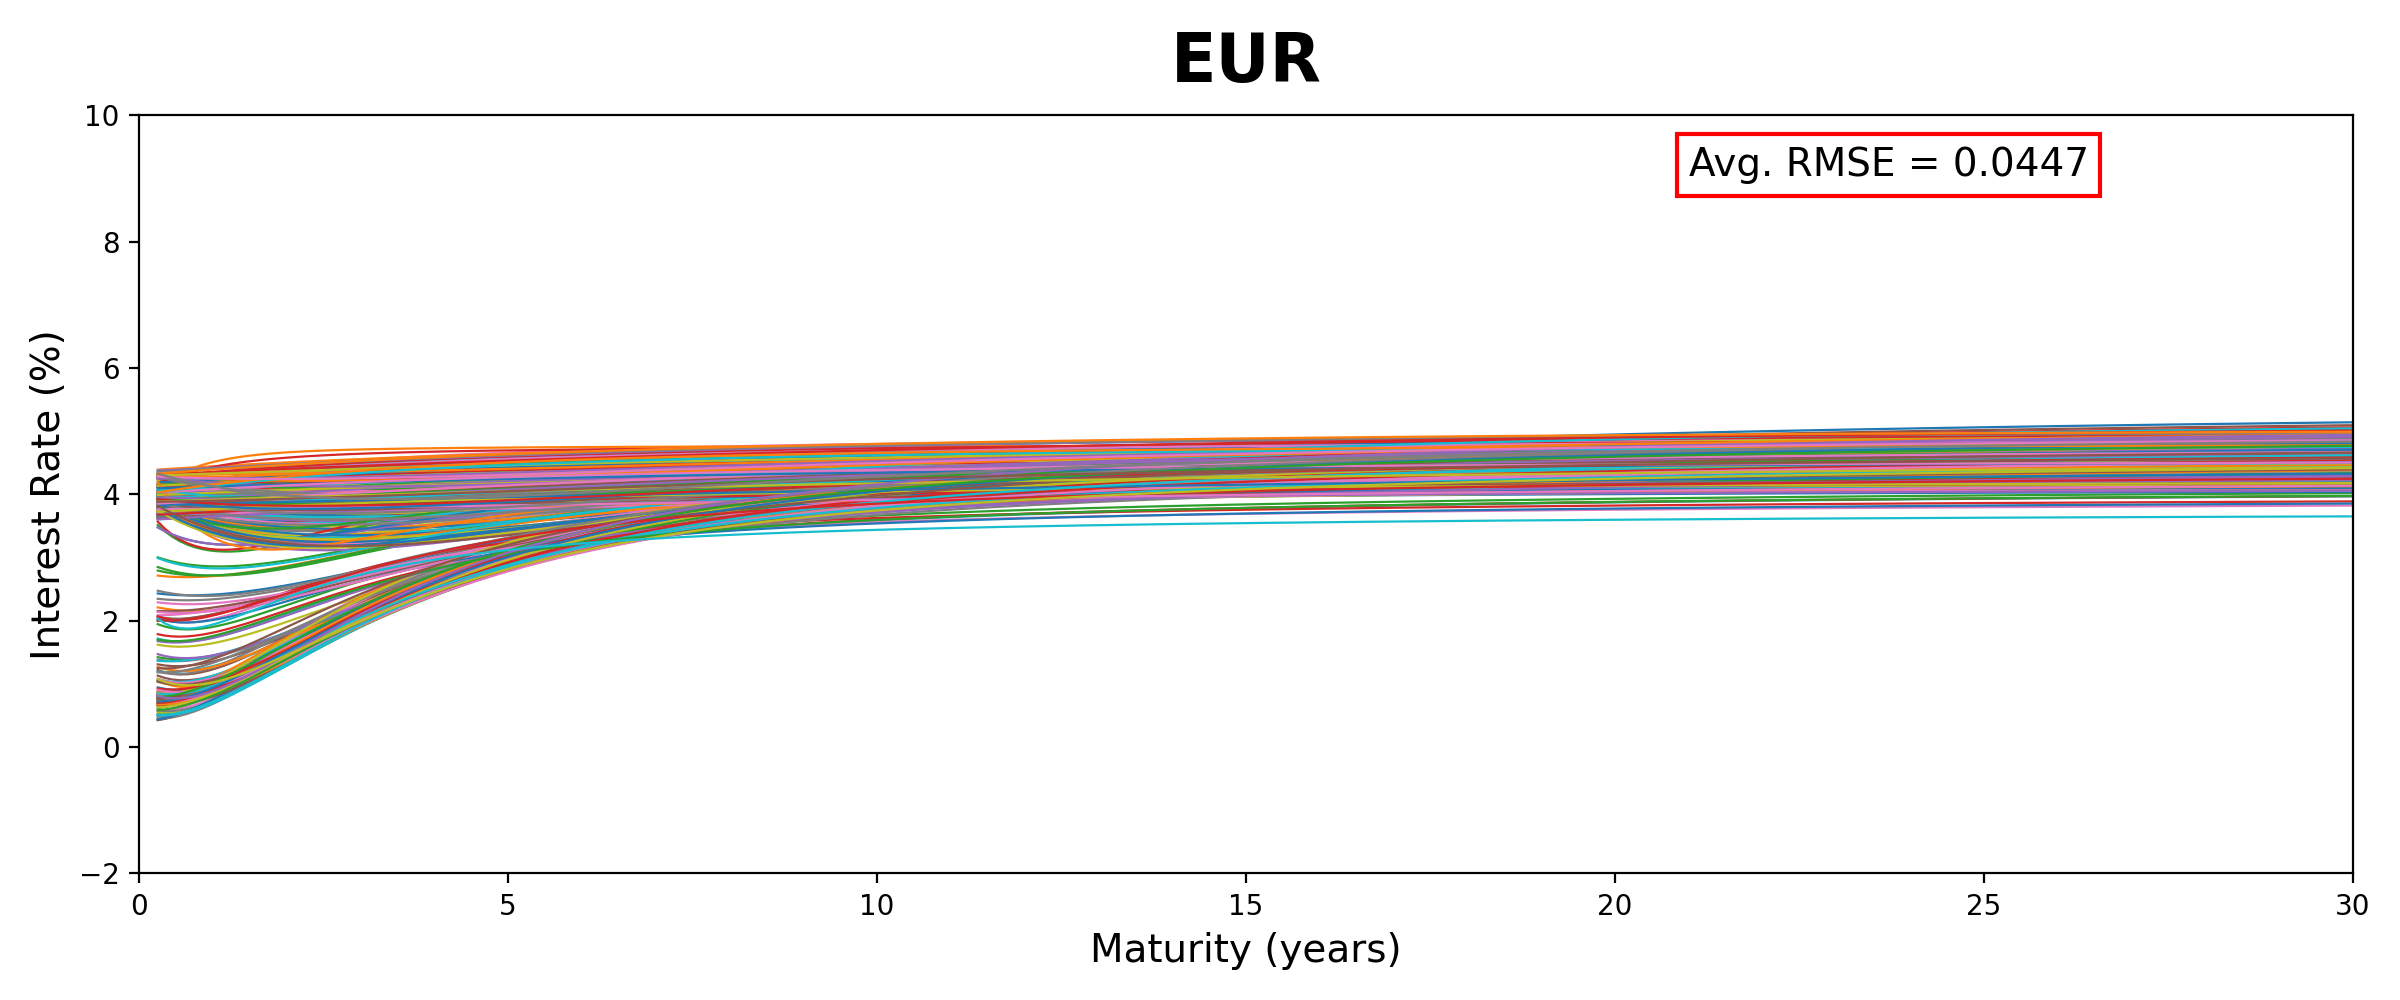
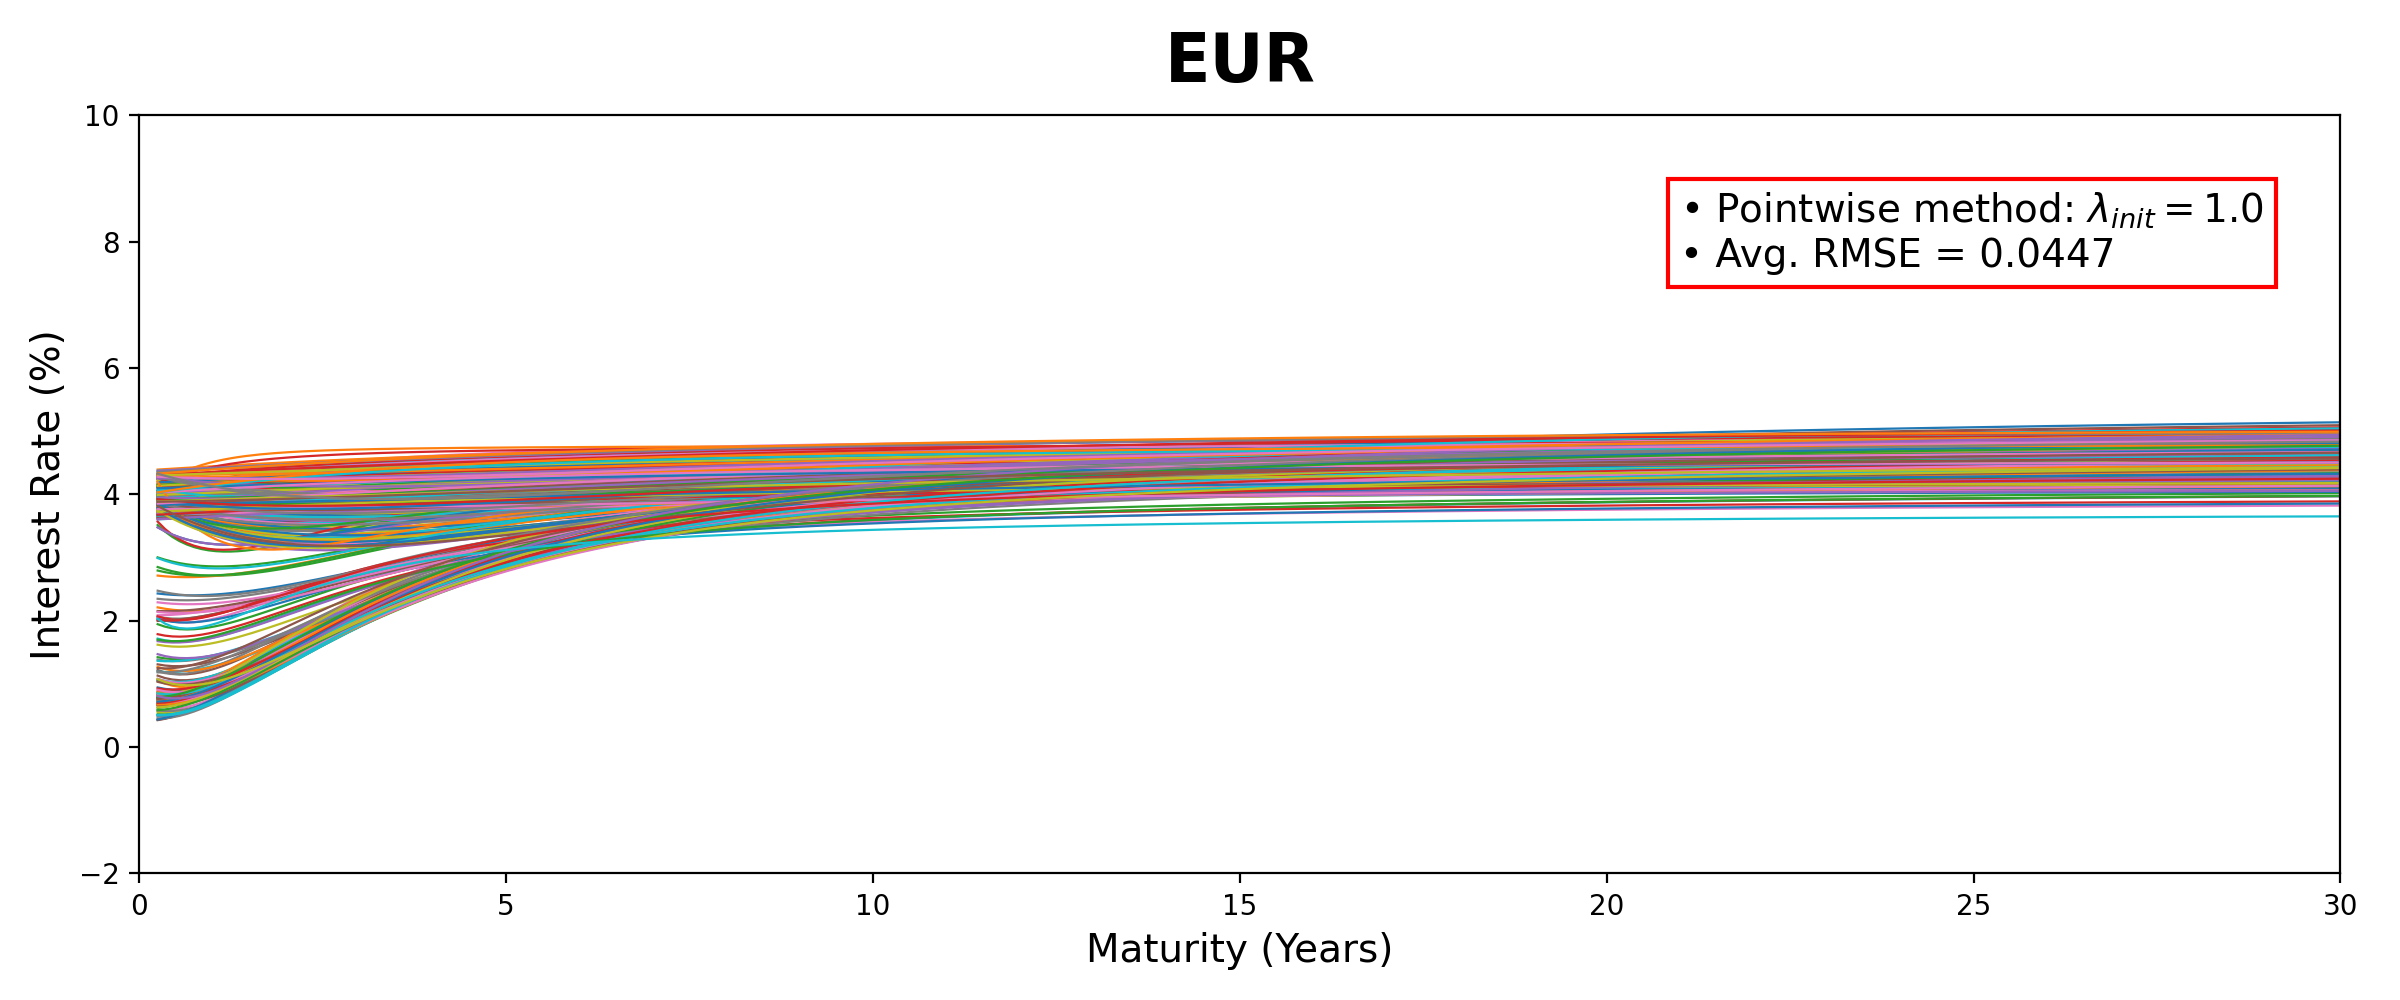
temp. save

diff --git a/Chapter 2/parametric_models/yplot_ns_grid_search.py b/Chapter 2/parametric_models/yplot_ns_grid_search.py
@@ -32,15 +32,20 @@ def yield_curves_plot(maturities_years, fitted_curves, rmse_values, title, save_
     for curve in fitted_curves:
         ax.plot(x_grid, curve(x_grid), linewidth=0.8)
 
-    ax.set_xlabel("Maturity (years) -- Grid Search", fontsize=14)
+    ax.set_xlabel("Maturity (Years)", fontsize=14)
     ax.set_ylabel("Interest Rate (%)", fontsize=14)
     ax.set_title(title, fontsize=24, fontweight="bold", pad=12)
     ax.set_ylim(-2, 10)
     ax.set_xlim(left=0, right=x_max)
 
     avg_rmse = float(np.nanmean(rmse_values))
+    info = (
+        r"• Grid search method"
+        "\n"
+        f"• Avg. RMSE = {avg_rmse:.4f}"
+    )
     ax.text(
-        0.70, 0.92, f"Avg. RMSE = {avg_rmse:.4f}",
+        0.70, 0.80, info,
         transform=ax.transAxes,
         fontsize=14,
         bbox=dict(boxstyle="square", facecolor="white", edgecolor="red", linewidth=1.5)
